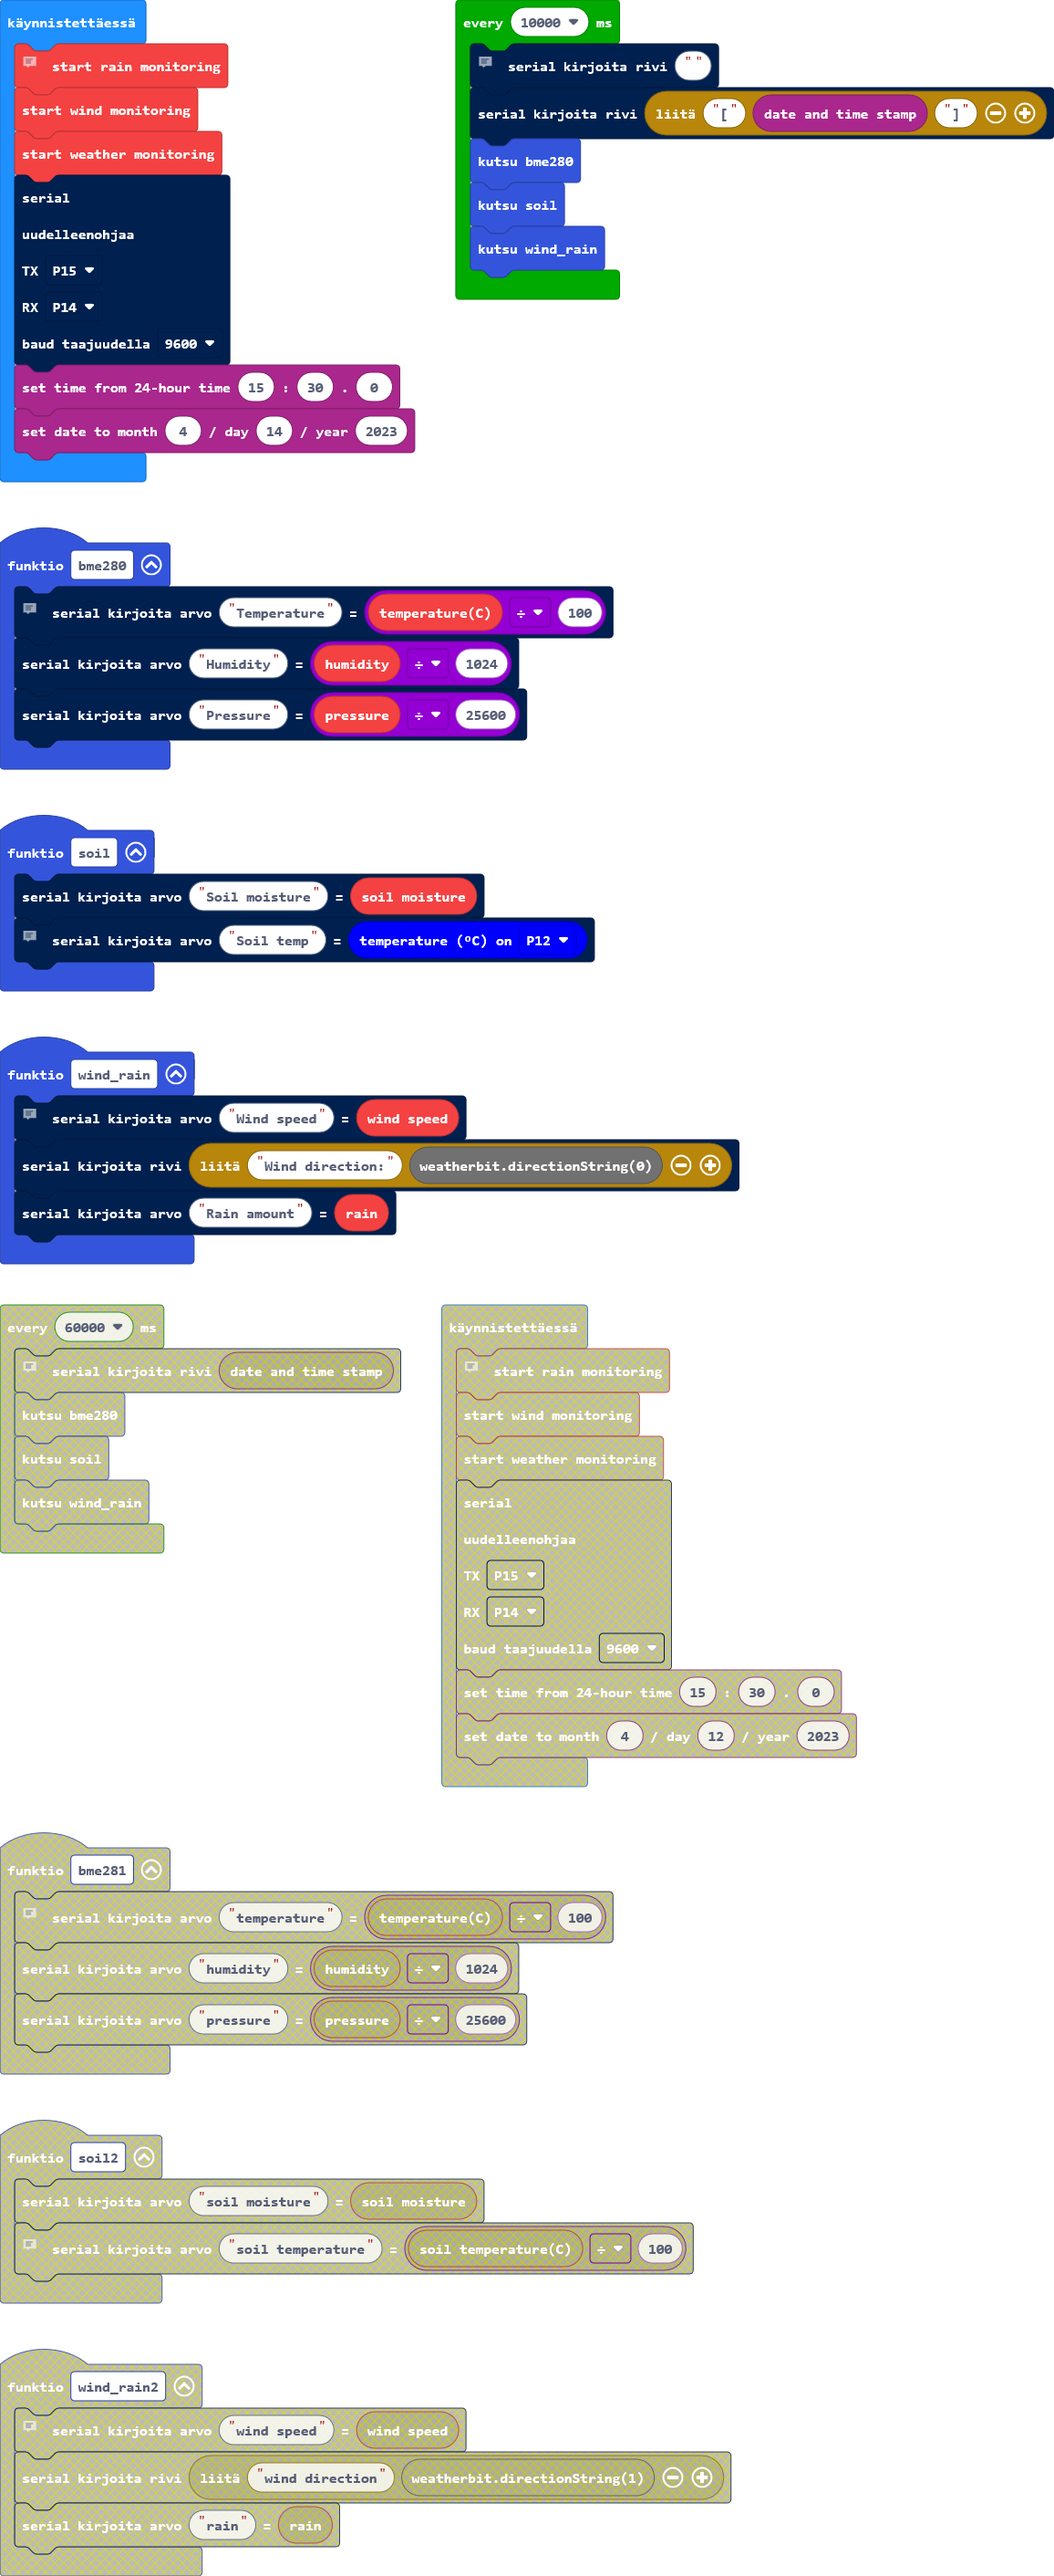
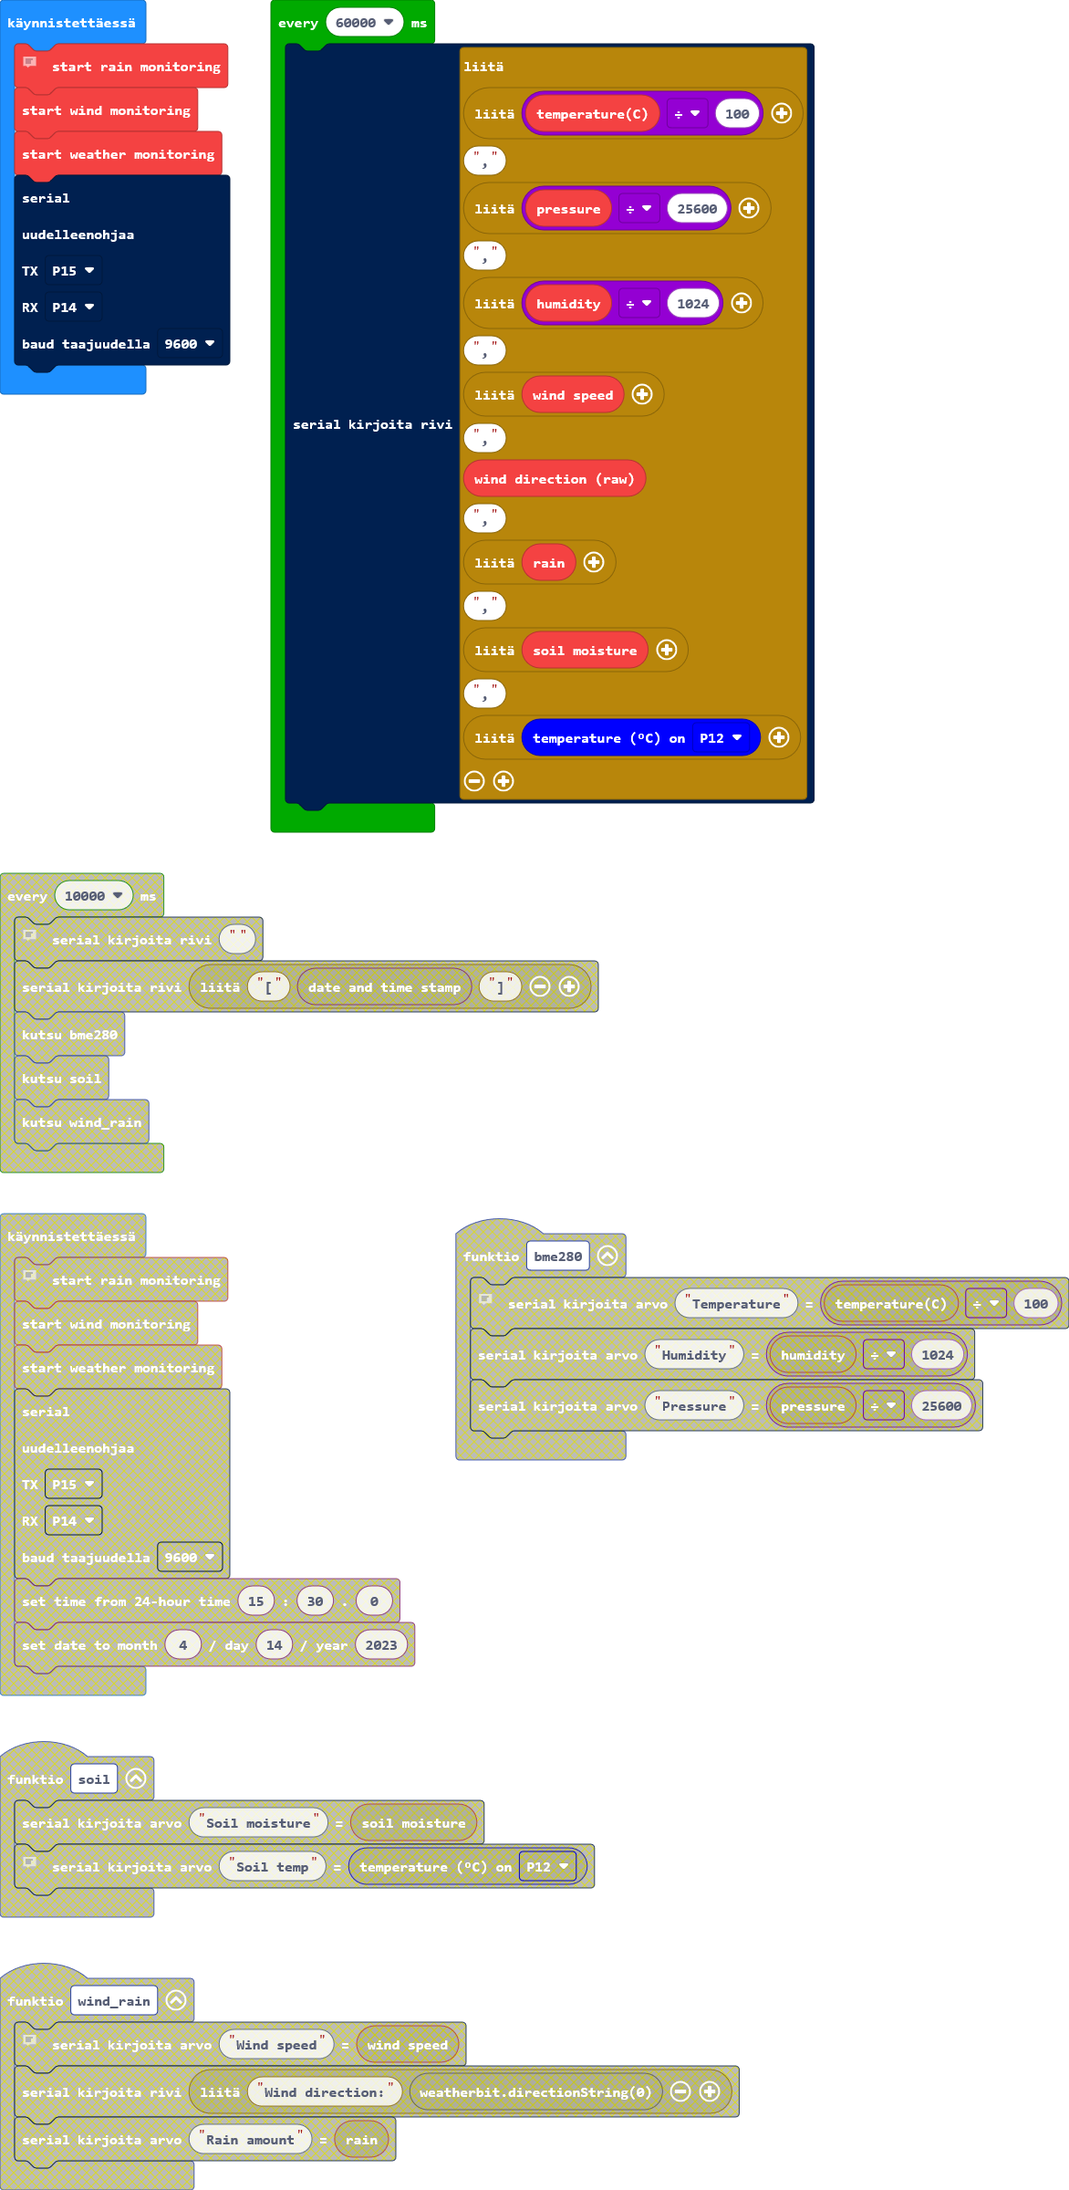
Päivitys main.blocks, main.ts, main.py

diff --git a/main.ts b/main.ts
@@ -1,20 +1,3 @@
-function soil () {
-    serial.writeValue("Soil moisture", weatherbit.soilMoisture())
-    // multa
-    serial.writeValue("Soil temp", dstemp.celsius(DigitalPin.P12))
-}
-function wind_rain () {
-    // tuuli ja sade
-    serial.writeValue("Wind speed", weatherbit.windSpeed())
-    serial.writeLine("Wind direction:" + weatherbit.directionString(0))
-    serial.writeValue("Rain amount", weatherbit.rain())
-}
-function bme280 () {
-    // lämpö, kosteus ja ilmanpaine
-    serial.writeValue("Temperature", weatherbit.temperature() / 100)
-    serial.writeValue("Humidity", weatherbit.humidity() / 1024)
-    serial.writeValue("Pressure", weatherbit.pressure() / 25600)
-}
 // aloitus
 weatherbit.startRainMonitoring()
 weatherbit.startWindMonitoring()
@@ -24,13 +7,6 @@ SerialPin.P15,
 SerialPin.P14,
 BaudRate.BaudRate9600
 )
-timeanddate.set24HourTime(15, 30, 0)
-timeanddate.setDate(4, 14, 2023)
-loops.everyInterval(10000, function () {
-    // tekee joka 5:s minuutti
-    serial.writeLine("")
-    serial.writeLine("[" + timeanddate.dateTime() + "]")
-    bme280()
-    soil()
-    wind_rain()
+loops.everyInterval(60000, function () {
+    serial.writeLine("" + weatherbit.temperature() / 100 + "," + ("" + weatherbit.pressure() / 25600) + "," + ("" + weatherbit.humidity() / 1024) + "," + ("" + weatherbit.windSpeed()) + "," + weatherbit.windDirectionRaw() + "," + ("" + weatherbit.rain()) + "," + ("" + weatherbit.soilMoisture()) + "," + ("" + dstemp.celsius(DigitalPin.P12)))
 })

diff --git a/main.py b/main.py
@@ -1,30 +1,9 @@
-def soil():
-    serial.write_value("Soil moisture", weatherbit.soil_moisture())
-    # multa
-    serial.write_value("Soil temp", dstemp.celsius(DigitalPin.P12))
-def wind_rain():
-    # tuuli ja sade
-    serial.write_value("Wind speed", weatherbit.wind_speed())
-    serial.write_line("Wind direction:" + weatherbit.direction_string(0))
-    serial.write_value("Rain amount", weatherbit.rain())
-def bme280():
-    # lämpö, kosteus ja ilmanpaine
-    serial.write_value("Temperature", weatherbit.temperature() / 100)
-    serial.write_value("Humidity", weatherbit.humidity() / 1024)
-    serial.write_value("Pressure", weatherbit.pressure() / 25600)
 # aloitus
 weatherbit.start_rain_monitoring()
 weatherbit.start_wind_monitoring()
 weatherbit.start_weather_monitoring()
 serial.redirect(SerialPin.P15, SerialPin.P14, BaudRate.BAUD_RATE9600)
-timeanddate.set24_hour_time(15, 30, 0)
-timeanddate.set_date(4, 14, 2023)
 
 def on_every_interval():
-    # tekee joka 5:s minuutti
-    serial.write_line("")
-    serial.write_line("[" + timeanddate.date_time() + "]")
-    bme280()
-    soil()
-    wind_rain()
-loops.every_interval(10000, on_every_interval)
+    serial.write_line("" + str(weatherbit.temperature() / 100) + "," + str(weatherbit.pressure() / 25600) + "," + str(weatherbit.humidity() / 1024) + "," + str(weatherbit.wind_speed()) + "," + (weatherbit.direction_string(0)) + "," + str(weatherbit.rain()) + "," + str(weatherbit.soil_moisture()) + "," + str(dstemp.celsius(DigitalPin.P12)))
+loops.every_interval(60000, on_every_interval)
